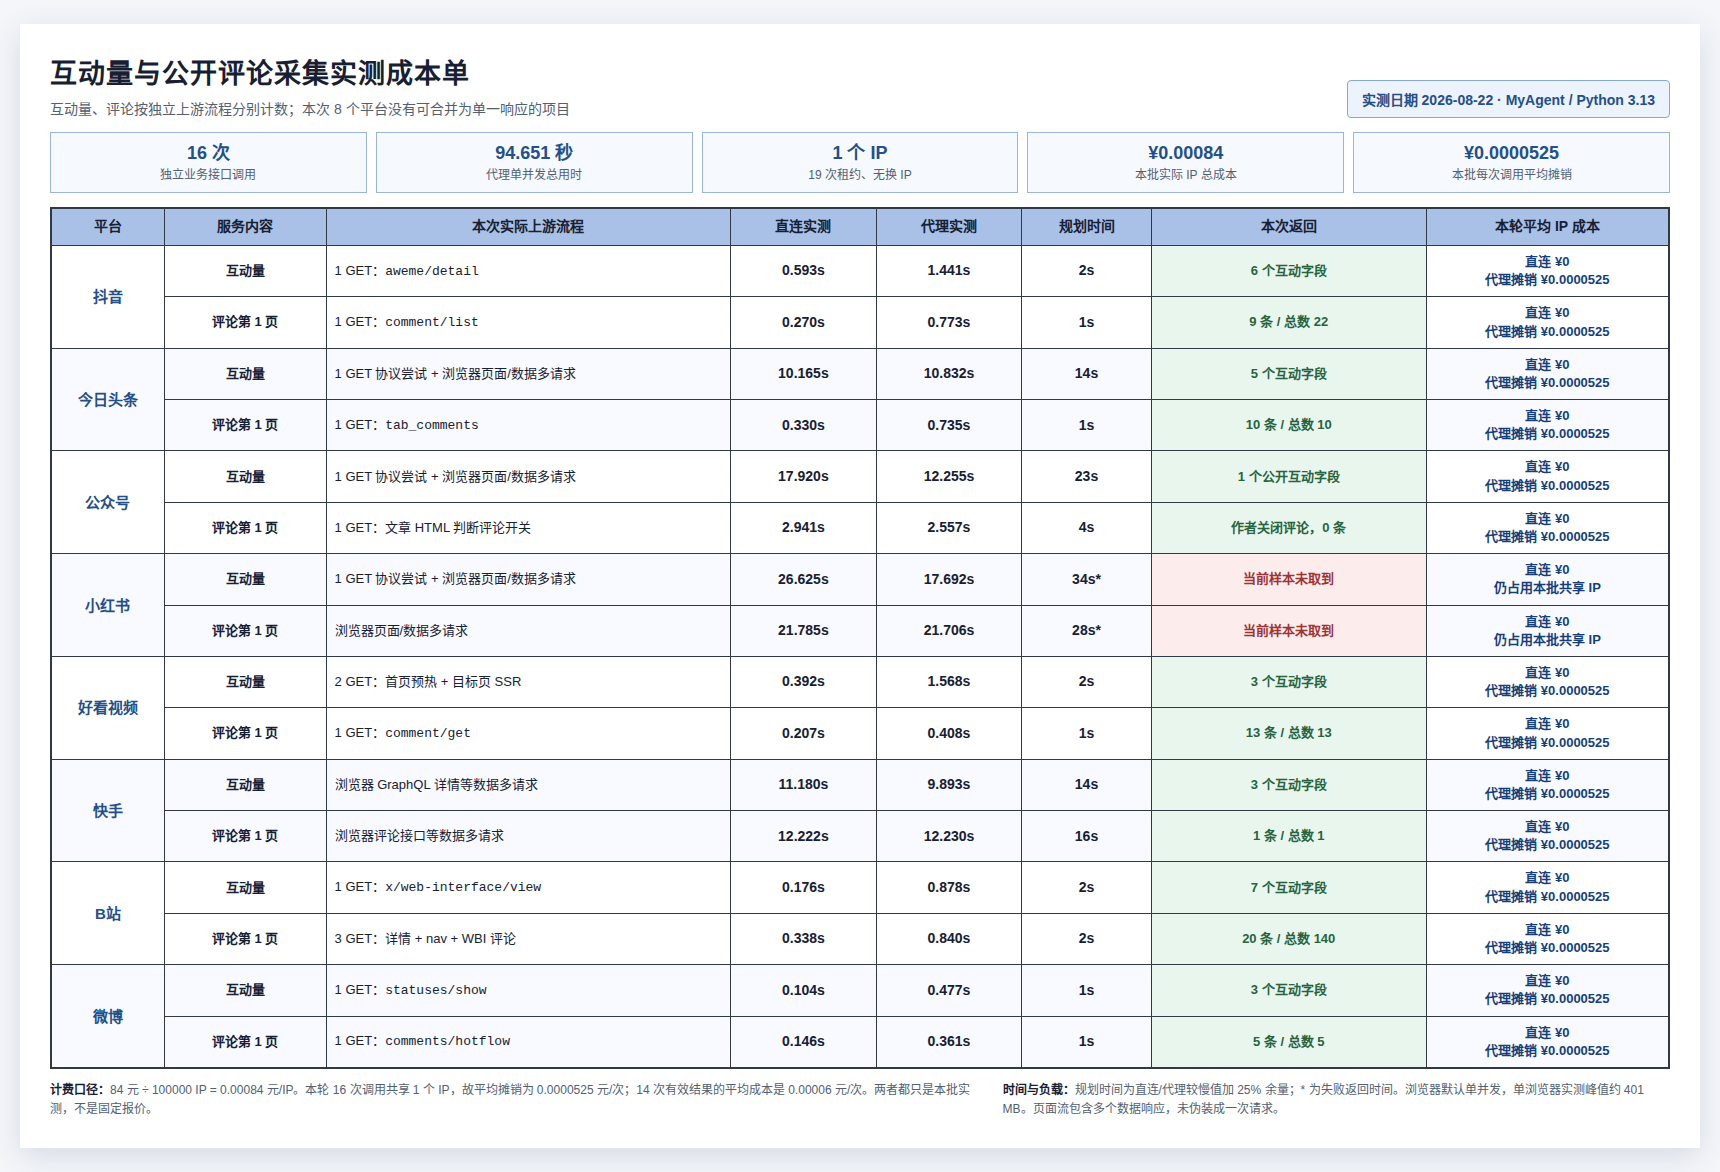
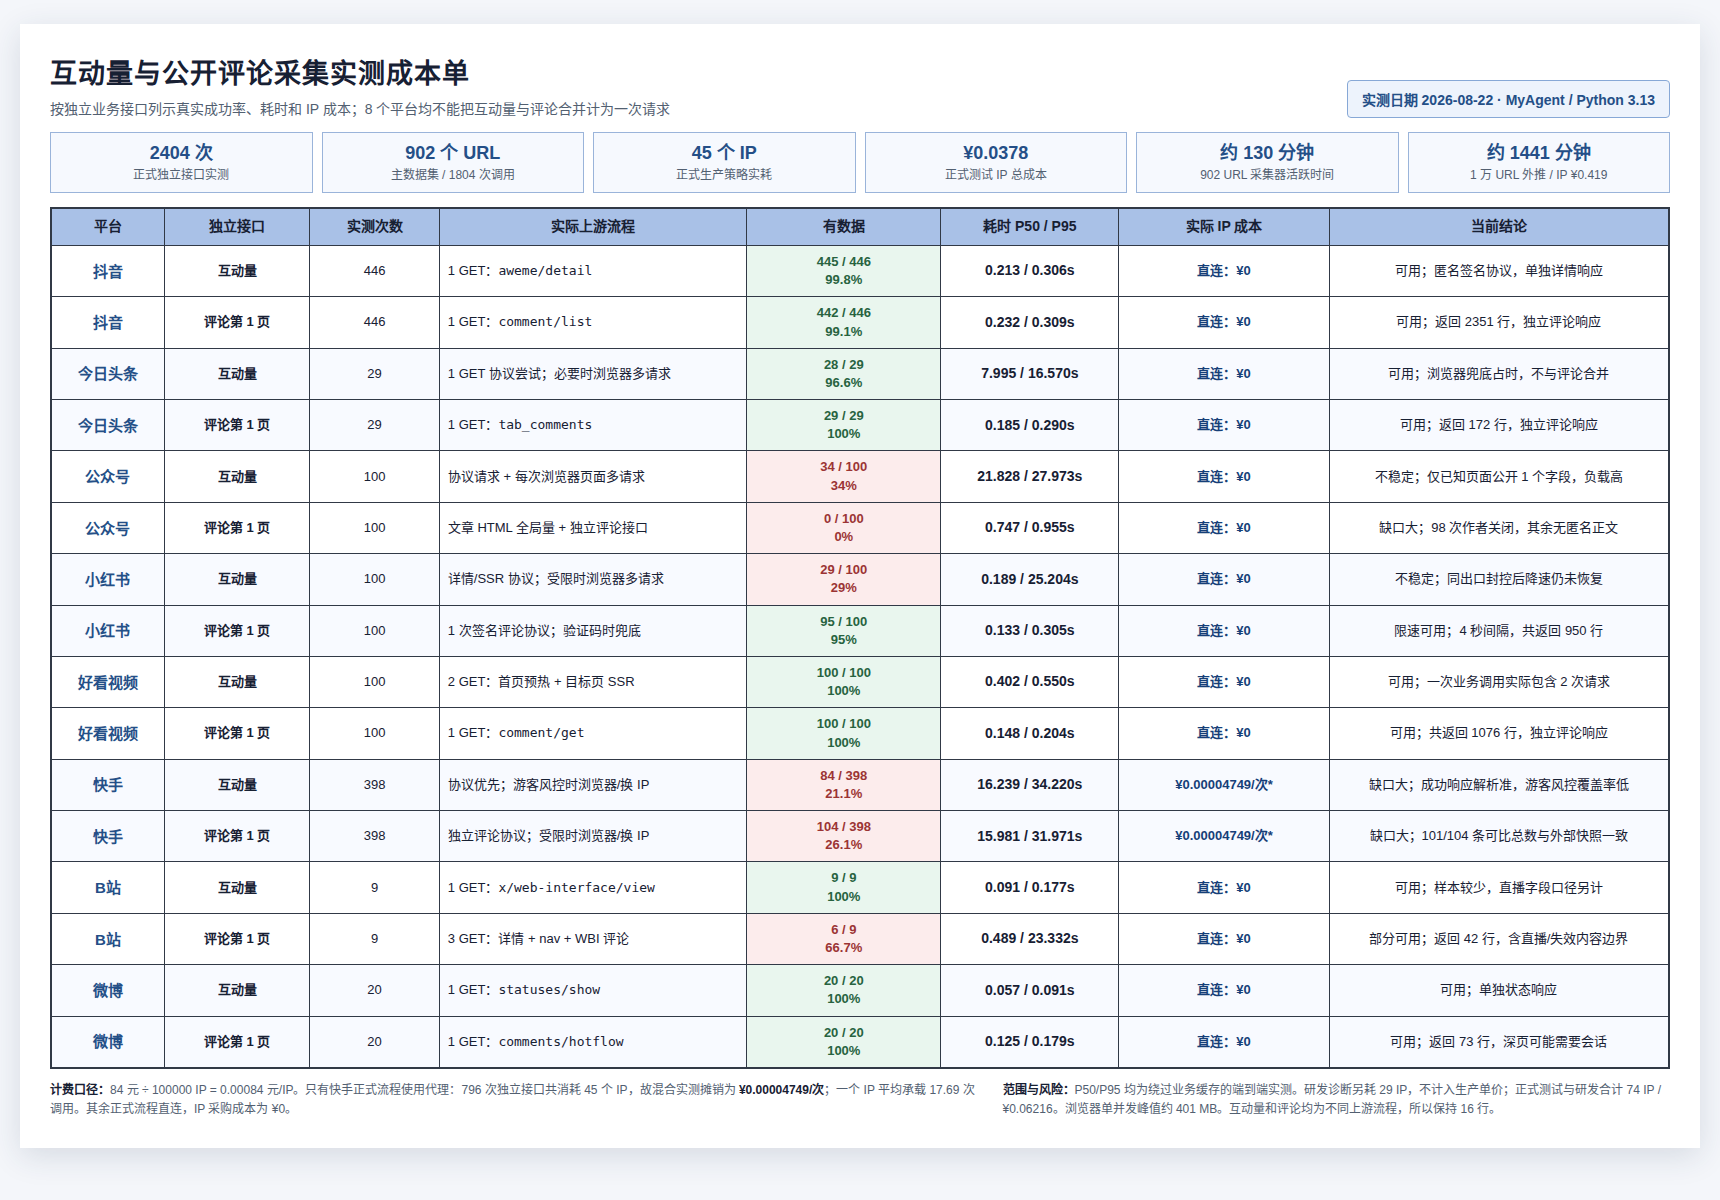
Sync cost sheet with reliability benchmarks

Changed region(s): [[0.0308, 0.0307, 0.986, 0.9829], [0.0308, 0.7372, 0.0924, 0.8294]]

diff --git a/docs/ENGAGEMENT_COST_SHEET.html b/docs/ENGAGEMENT_COST_SHEET.html
@@ -68,7 +68,7 @@
 
     .summary {
       display: grid;
-      grid-template-columns: repeat(5, 1fr);
+      grid-template-columns: repeat(6, 1fr);
       gap: 9px;
       margin: 0 0 14px;
     }
@@ -102,13 +102,13 @@
     }
 
     col.platform { width: 7%; }
-    col.service { width: 10%; }
-    col.upstream { width: 25%; }
-    col.direct { width: 9%; }
-    col.proxy { width: 9%; }
-    col.estimate { width: 8%; }
-    col.result { width: 17%; }
-    col.cost { width: 15%; }
+    col.service { width: 9%; }
+    col.sample { width: 8%; }
+    col.upstream { width: 19%; }
+    col.result { width: 12%; }
+    col.time { width: 11%; }
+    col.cost { width: 13%; }
+    col.verdict { width: 21%; }
 
     th,
     td {
@@ -197,140 +197,141 @@
     <header class="heading">
       <div>
         <h1>互动量与公开评论采集实测成本单</h1>
-        <div class="subtitle">互动量、评论按独立上游流程分别计数；本次 8 个平台没有可合并为单一响应的项目</div>
+        <div class="subtitle">按独立业务接口列示真实成功率、耗时和 IP 成本；8 个平台均不能把互动量与评论合并计为一次请求</div>
       </div>
       <div class="badge">实测日期 2026-08-22 · MyAgent / Python 3.13</div>
     </header>
 
     <section class="summary" aria-label="本轮代理成本摘要">
-      <div class="metric"><strong>16 次</strong><span>独立业务接口调用</span></div>
-      <div class="metric"><strong>94.651 秒</strong><span>代理单并发总用时</span></div>
-      <div class="metric"><strong>1 个 IP</strong><span>19 次租约、无换 IP</span></div>
-      <div class="metric"><strong>¥0.00084</strong><span>本批实际 IP 总成本</span></div>
-      <div class="metric"><strong>¥0.0000525</strong><span>本批每次调用平均摊销</span></div>
+      <div class="metric"><strong>2404 次</strong><span>正式独立接口实测</span></div>
+      <div class="metric"><strong>902 个 URL</strong><span>主数据集 / 1804 次调用</span></div>
+      <div class="metric"><strong>45 个 IP</strong><span>正式生产策略实耗</span></div>
+      <div class="metric"><strong>¥0.0378</strong><span>正式测试 IP 总成本</span></div>
+      <div class="metric"><strong>约 130 分钟</strong><span>902 URL 采集器活跃时间</span></div>
+      <div class="metric"><strong>约 1441 分钟</strong><span>1 万 URL 外推 / IP ¥0.419</span></div>
     </section>
 
-    <table aria-label="八个平台十六项独立实测明细">
+    <table aria-label="八个平台十六项独立接口成本明细">
       <colgroup>
-        <col class="platform"><col class="service"><col class="upstream"><col class="direct">
-        <col class="proxy"><col class="estimate"><col class="result"><col class="cost">
+        <col class="platform"><col class="service"><col class="sample"><col class="upstream">
+        <col class="result"><col class="time"><col class="cost"><col class="verdict">
       </colgroup>
       <thead>
         <tr>
-          <th>平台</th><th>服务内容</th><th>本次实际上游流程</th><th>直连实测</th>
-          <th>代理实测</th><th>规划时间</th><th>本次返回</th><th>本轮平均 IP 成本</th>
+          <th>平台</th><th>独立接口</th><th>实测次数</th><th>实际上游流程</th>
+          <th>有数据</th><th>耗时 P50 / P95</th><th>实际 IP 成本</th><th>当前结论</th>
         </tr>
       </thead>
       <tbody>
         <tr>
-          <td class="platform-cell" rowspan="2">抖音</td><td class="service-cell">互动量</td>
-          <td class="upstream-cell">1 GET：<code>aweme/detail</code></td><td class="time-cell"><strong>0.593s</strong></td>
-          <td class="time-cell"><strong>1.441s</strong></td><td class="time-cell"><strong>2s</strong></td>
-          <td class="result-ok">6 个互动字段</td><td class="cost-cell">直连 ¥0<br>代理摊销 ¥0.0000525</td>
+          <td class="platform-cell">抖音</td><td class="service-cell">互动量</td><td>446</td>
+          <td class="upstream-cell">1 GET：<code>aweme/detail</code></td><td class="result-ok">445 / 446<br>99.8%</td>
+          <td class="time-cell"><strong>0.213 / 0.306s</strong></td><td class="cost-cell">直连：¥0</td>
+          <td>可用；匿名签名协议，单独详情响应</td>
         </tr>
         <tr>
-          <td class="service-cell">评论第 1 页</td><td class="upstream-cell">1 GET：<code>comment/list</code></td>
-          <td class="time-cell"><strong>0.270s</strong></td><td class="time-cell"><strong>0.773s</strong></td>
-          <td class="time-cell"><strong>1s</strong></td><td class="result-ok">9 条 / 总数 22</td>
-          <td class="cost-cell">直连 ¥0<br>代理摊销 ¥0.0000525</td>
+          <td class="platform-cell">抖音</td><td class="service-cell">评论第 1 页</td><td>446</td>
+          <td class="upstream-cell">1 GET：<code>comment/list</code></td><td class="result-ok">442 / 446<br>99.1%</td>
+          <td class="time-cell"><strong>0.232 / 0.309s</strong></td><td class="cost-cell">直连：¥0</td>
+          <td>可用；返回 2351 行，独立评论响应</td>
         </tr>
 
         <tr class="group-even">
-          <td class="platform-cell" rowspan="2">今日头条</td><td class="service-cell">互动量</td>
-          <td class="upstream-cell">1 GET 协议尝试 + 浏览器页面/数据多请求</td><td class="time-cell"><strong>10.165s</strong></td>
-          <td class="time-cell"><strong>10.832s</strong></td><td class="time-cell"><strong>14s</strong></td>
-          <td class="result-ok">5 个互动字段</td><td class="cost-cell">直连 ¥0<br>代理摊销 ¥0.0000525</td>
+          <td class="platform-cell">今日头条</td><td class="service-cell">互动量</td><td>29</td>
+          <td class="upstream-cell">1 GET 协议尝试；必要时浏览器多请求</td><td class="result-ok">28 / 29<br>96.6%</td>
+          <td class="time-cell"><strong>7.995 / 16.570s</strong></td><td class="cost-cell">直连：¥0</td>
+          <td>可用；浏览器兜底占时，不与评论合并</td>
         </tr>
         <tr class="group-even">
-          <td class="service-cell">评论第 1 页</td><td class="upstream-cell">1 GET：<code>tab_comments</code></td>
-          <td class="time-cell"><strong>0.330s</strong></td><td class="time-cell"><strong>0.735s</strong></td>
-          <td class="time-cell"><strong>1s</strong></td><td class="result-ok">10 条 / 总数 10</td>
-          <td class="cost-cell">直连 ¥0<br>代理摊销 ¥0.0000525</td>
+          <td class="platform-cell">今日头条</td><td class="service-cell">评论第 1 页</td><td>29</td>
+          <td class="upstream-cell">1 GET：<code>tab_comments</code></td><td class="result-ok">29 / 29<br>100%</td>
+          <td class="time-cell"><strong>0.185 / 0.290s</strong></td><td class="cost-cell">直连：¥0</td>
+          <td>可用；返回 172 行，独立评论响应</td>
         </tr>
 
         <tr>
-          <td class="platform-cell" rowspan="2">公众号</td><td class="service-cell">互动量</td>
-          <td class="upstream-cell">1 GET 协议尝试 + 浏览器页面/数据多请求</td><td class="time-cell"><strong>17.920s</strong></td>
-          <td class="time-cell"><strong>12.255s</strong></td><td class="time-cell"><strong>23s</strong></td>
-          <td class="result-ok">1 个公开互动字段</td><td class="cost-cell">直连 ¥0<br>代理摊销 ¥0.0000525</td>
+          <td class="platform-cell">公众号</td><td class="service-cell">互动量</td><td>100</td>
+          <td class="upstream-cell">协议请求 + 每次浏览器页面多请求</td><td class="result-bad">34 / 100<br>34%</td>
+          <td class="time-cell"><strong>21.828 / 27.973s</strong></td><td class="cost-cell">直连：¥0</td>
+          <td>不稳定；仅已知页面公开 1 个字段，负载高</td>
         </tr>
         <tr>
-          <td class="service-cell">评论第 1 页</td><td class="upstream-cell">1 GET：文章 HTML 判断评论开关</td>
-          <td class="time-cell"><strong>2.941s</strong></td><td class="time-cell"><strong>2.557s</strong></td>
-          <td class="time-cell"><strong>4s</strong></td><td class="result-ok">作者关闭评论，0 条</td>
-          <td class="cost-cell">直连 ¥0<br>代理摊销 ¥0.0000525</td>
+          <td class="platform-cell">公众号</td><td class="service-cell">评论第 1 页</td><td>100</td>
+          <td class="upstream-cell">文章 HTML 全局量 + 独立评论接口</td><td class="result-bad">0 / 100<br>0%</td>
+          <td class="time-cell"><strong>0.747 / 0.955s</strong></td><td class="cost-cell">直连：¥0</td>
+          <td>缺口大；98 次作者关闭，其余无匿名正文</td>
         </tr>
 
         <tr class="group-even">
-          <td class="platform-cell" rowspan="2">小红书</td><td class="service-cell">互动量</td>
-          <td class="upstream-cell">1 GET 协议尝试 + 浏览器页面/数据多请求</td><td class="time-cell"><strong>26.625s</strong></td>
-          <td class="time-cell"><strong>17.692s</strong></td><td class="time-cell"><strong>34s*</strong></td>
-          <td class="result-bad">当前样本未取到</td><td class="cost-cell">直连 ¥0<br>仍占用本批共享 IP</td>
+          <td class="platform-cell">小红书</td><td class="service-cell">互动量</td><td>100</td>
+          <td class="upstream-cell">详情/SSR 协议；受限时浏览器多请求</td><td class="result-bad">29 / 100<br>29%</td>
+          <td class="time-cell"><strong>0.189 / 25.204s</strong></td><td class="cost-cell">直连：¥0</td>
+          <td>不稳定；同出口封控后降速仍未恢复</td>
         </tr>
         <tr class="group-even">
-          <td class="service-cell">评论第 1 页</td><td class="upstream-cell">浏览器页面/数据多请求</td>
-          <td class="time-cell"><strong>21.785s</strong></td><td class="time-cell"><strong>21.706s</strong></td>
-          <td class="time-cell"><strong>28s*</strong></td><td class="result-bad">当前样本未取到</td>
-          <td class="cost-cell">直连 ¥0<br>仍占用本批共享 IP</td>
+          <td class="platform-cell">小红书</td><td class="service-cell">评论第 1 页</td><td>100</td>
+          <td class="upstream-cell">1 次签名评论协议；验证码时兜底</td><td class="result-ok">95 / 100<br>95%</td>
+          <td class="time-cell"><strong>0.133 / 0.305s</strong></td><td class="cost-cell">直连：¥0</td>
+          <td>限速可用；4 秒间隔，共返回 950 行</td>
         </tr>
 
         <tr>
-          <td class="platform-cell" rowspan="2">好看视频</td><td class="service-cell">互动量</td>
-          <td class="upstream-cell">2 GET：首页预热 + 目标页 SSR</td><td class="time-cell"><strong>0.392s</strong></td>
-          <td class="time-cell"><strong>1.568s</strong></td><td class="time-cell"><strong>2s</strong></td>
-          <td class="result-ok">3 个互动字段</td><td class="cost-cell">直连 ¥0<br>代理摊销 ¥0.0000525</td>
+          <td class="platform-cell">好看视频</td><td class="service-cell">互动量</td><td>100</td>
+          <td class="upstream-cell">2 GET：首页预热 + 目标页 SSR</td><td class="result-ok">100 / 100<br>100%</td>
+          <td class="time-cell"><strong>0.402 / 0.550s</strong></td><td class="cost-cell">直连：¥0</td>
+          <td>可用；一次业务调用实际包含 2 次请求</td>
         </tr>
         <tr>
-          <td class="service-cell">评论第 1 页</td><td class="upstream-cell">1 GET：<code>comment/get</code></td>
-          <td class="time-cell"><strong>0.207s</strong></td><td class="time-cell"><strong>0.408s</strong></td>
-          <td class="time-cell"><strong>1s</strong></td><td class="result-ok">13 条 / 总数 13</td>
-          <td class="cost-cell">直连 ¥0<br>代理摊销 ¥0.0000525</td>
+          <td class="platform-cell">好看视频</td><td class="service-cell">评论第 1 页</td><td>100</td>
+          <td class="upstream-cell">1 GET：<code>comment/get</code></td><td class="result-ok">100 / 100<br>100%</td>
+          <td class="time-cell"><strong>0.148 / 0.204s</strong></td><td class="cost-cell">直连：¥0</td>
+          <td>可用；共返回 1076 行，独立评论响应</td>
         </tr>
 
         <tr class="group-even">
-          <td class="platform-cell" rowspan="2">快手</td><td class="service-cell">互动量</td>
-          <td class="upstream-cell">浏览器 GraphQL 详情等数据多请求</td><td class="time-cell"><strong>11.180s</strong></td>
-          <td class="time-cell"><strong>9.893s</strong></td><td class="time-cell"><strong>14s</strong></td>
-          <td class="result-ok">3 个互动字段</td><td class="cost-cell">直连 ¥0<br>代理摊销 ¥0.0000525</td>
+          <td class="platform-cell">快手</td><td class="service-cell">互动量</td><td>398</td>
+          <td class="upstream-cell">协议优先；游客风控时浏览器/换 IP</td><td class="result-bad">84 / 398<br>21.1%</td>
+          <td class="time-cell"><strong>16.239 / 34.220s</strong></td><td class="cost-cell">¥0.00004749/次*</td>
+          <td>缺口大；成功响应解析准，游客风控覆盖率低</td>
         </tr>
         <tr class="group-even">
-          <td class="service-cell">评论第 1 页</td><td class="upstream-cell">浏览器评论接口等数据多请求</td>
-          <td class="time-cell"><strong>12.222s</strong></td><td class="time-cell"><strong>12.230s</strong></td>
-          <td class="time-cell"><strong>16s</strong></td><td class="result-ok">1 条 / 总数 1</td>
-          <td class="cost-cell">直连 ¥0<br>代理摊销 ¥0.0000525</td>
+          <td class="platform-cell">快手</td><td class="service-cell">评论第 1 页</td><td>398</td>
+          <td class="upstream-cell">独立评论协议；受限时浏览器/换 IP</td><td class="result-bad">104 / 398<br>26.1%</td>
+          <td class="time-cell"><strong>15.981 / 31.971s</strong></td><td class="cost-cell">¥0.00004749/次*</td>
+          <td>缺口大；101/104 条可比总数与外部快照一致</td>
         </tr>
 
         <tr>
-          <td class="platform-cell" rowspan="2">B站</td><td class="service-cell">互动量</td>
-          <td class="upstream-cell">1 GET：<code>x/web-interface/view</code></td><td class="time-cell"><strong>0.176s</strong></td>
-          <td class="time-cell"><strong>0.878s</strong></td><td class="time-cell"><strong>2s</strong></td>
-          <td class="result-ok">7 个互动字段</td><td class="cost-cell">直连 ¥0<br>代理摊销 ¥0.0000525</td>
+          <td class="platform-cell">B站</td><td class="service-cell">互动量</td><td>9</td>
+          <td class="upstream-cell">1 GET：<code>x/web-interface/view</code></td><td class="result-ok">9 / 9<br>100%</td>
+          <td class="time-cell"><strong>0.091 / 0.177s</strong></td><td class="cost-cell">直连：¥0</td>
+          <td>可用；样本较少，直播字段口径另计</td>
         </tr>
         <tr>
-          <td class="service-cell">评论第 1 页</td><td class="upstream-cell">3 GET：详情 + nav + WBI 评论</td>
-          <td class="time-cell"><strong>0.338s</strong></td><td class="time-cell"><strong>0.840s</strong></td>
-          <td class="time-cell"><strong>2s</strong></td><td class="result-ok">20 条 / 总数 140</td>
-          <td class="cost-cell">直连 ¥0<br>代理摊销 ¥0.0000525</td>
+          <td class="platform-cell">B站</td><td class="service-cell">评论第 1 页</td><td>9</td>
+          <td class="upstream-cell">3 GET：详情 + nav + WBI 评论</td><td class="result-bad">6 / 9<br>66.7%</td>
+          <td class="time-cell"><strong>0.489 / 23.332s</strong></td><td class="cost-cell">直连：¥0</td>
+          <td>部分可用；返回 42 行，含直播/失效内容边界</td>
         </tr>
 
         <tr class="group-even">
-          <td class="platform-cell" rowspan="2">微博</td><td class="service-cell">互动量</td>
-          <td class="upstream-cell">1 GET：<code>statuses/show</code></td><td class="time-cell"><strong>0.104s</strong></td>
-          <td class="time-cell"><strong>0.477s</strong></td><td class="time-cell"><strong>1s</strong></td>
-          <td class="result-ok">3 个互动字段</td><td class="cost-cell">直连 ¥0<br>代理摊销 ¥0.0000525</td>
+          <td class="platform-cell">微博</td><td class="service-cell">互动量</td><td>20</td>
+          <td class="upstream-cell">1 GET：<code>statuses/show</code></td><td class="result-ok">20 / 20<br>100%</td>
+          <td class="time-cell"><strong>0.057 / 0.091s</strong></td><td class="cost-cell">直连：¥0</td>
+          <td>可用；单独状态响应</td>
         </tr>
         <tr class="group-even">
-          <td class="service-cell">评论第 1 页</td><td class="upstream-cell">1 GET：<code>comments/hotflow</code></td>
-          <td class="time-cell"><strong>0.146s</strong></td><td class="time-cell"><strong>0.361s</strong></td>
-          <td class="time-cell"><strong>1s</strong></td><td class="result-ok">5 条 / 总数 5</td>
-          <td class="cost-cell">直连 ¥0<br>代理摊销 ¥0.0000525</td>
+          <td class="platform-cell">微博</td><td class="service-cell">评论第 1 页</td><td>20</td>
+          <td class="upstream-cell">1 GET：<code>comments/hotflow</code></td><td class="result-ok">20 / 20<br>100%</td>
+          <td class="time-cell"><strong>0.125 / 0.179s</strong></td><td class="cost-cell">直连：¥0</td>
+          <td>可用；返回 73 行，深页可能需要会话</td>
         </tr>
       </tbody>
     </table>
 
     <section class="notes">
-      <p><strong>计费口径：</strong>84 元 ÷ 100000 IP = 0.00084 元/IP。本轮 16 次调用共享 1 个 IP，故平均摊销为 0.0000525 元/次；14 次有效结果的平均成本是 0.00006 元/次。两者都只是本批实测，不是固定报价。</p>
-      <p><strong>时间与负载：</strong>规划时间为直连/代理较慢值加 25% 余量；* 为失败返回时间。浏览器默认单并发，单浏览器实测峰值约 401 MB。页面流包含多个数据响应，未伪装成一次请求。</p>
+      <p><strong>计费口径：</strong>84 元 ÷ 100000 IP = 0.00084 元/IP。只有快手正式流程使用代理：796 次独立接口共消耗 45 个 IP，故混合实测摊销为 <strong>¥0.00004749/次</strong>；一个 IP 平均承载 17.69 次调用。其余正式流程直连，IP 采购成本为 ¥0。</p>
+      <p><strong>范围与风险：</strong>P50/P95 均为绕过业务缓存的端到端实测。研发诊断另耗 29 IP，不计入生产单价；正式测试与研发合计 74 IP / ¥0.06216。浏览器单并发峰值约 401 MB。互动量和评论均为不同上游流程，所以保持 16 行。</p>
     </section>
   </main>
 </body>
